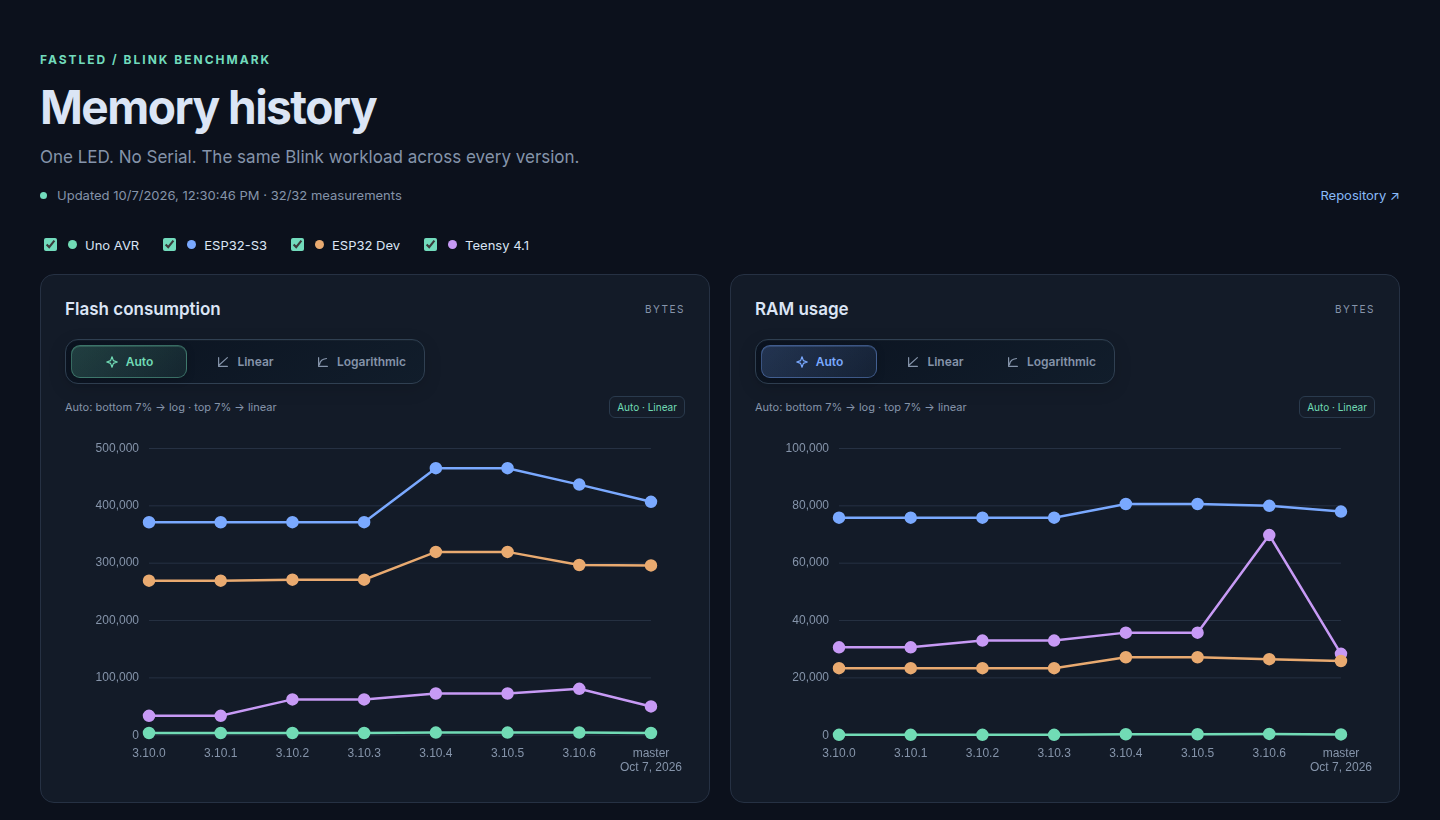
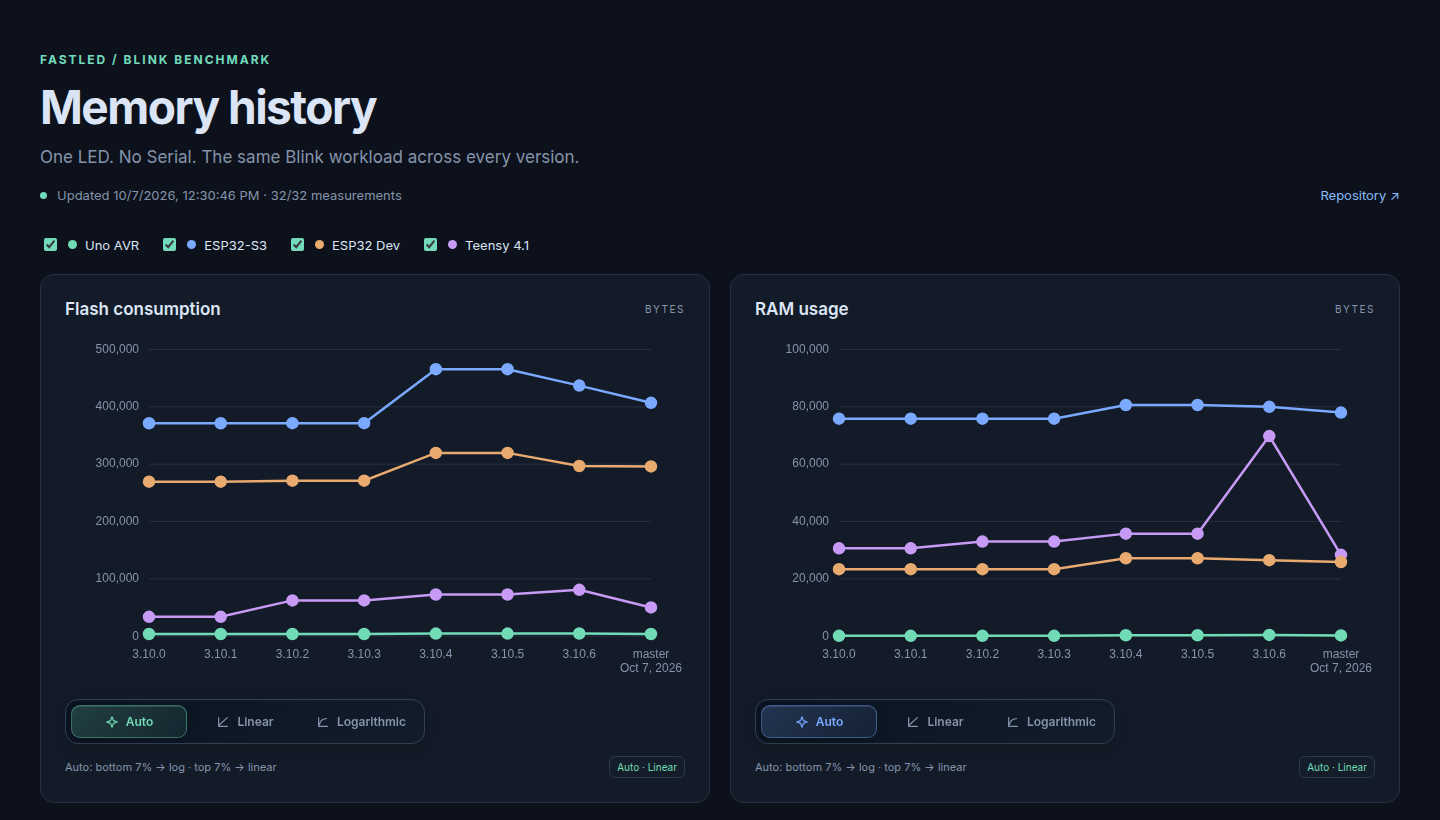
Move scale selectors below each graph (#12)

diff --git a/docs/index.html b/docs/index.html
@@ -13,8 +13,8 @@
     </header>
     <section class="toolbar" aria-label="Chart controls"><div id="platforms"></div></section>
     <div class="charts">
-      <section class="panel"><div class="panel-head"><h2>Flash consumption</h2><span>BYTES</span></div><fieldset id="flash-scale" class="scale-controls" title="Auto switches to logarithmic in the bottom 7% of the plot, and back to linear only in the top 7%."><legend class="sr-only">Flash scale</legend><span class="scale-thumb" aria-hidden="true"></span><label><input type="radio" name="flash-scale" value="auto" checked><span><svg viewBox="0 0 16 16" aria-hidden="true"><path d="M8 2l1.6 4.4L14 8l-4.4 1.6L8 14l-1.6-4.4L2 8l4.4-1.6Z"/></svg>Auto</span></label><label><input type="radio" name="flash-scale" value="linear"><span><svg viewBox="0 0 16 16" aria-hidden="true"><path d="M3 12 13 3M3 3v10h10"/></svg>Linear</span></label><label><input type="radio" name="flash-scale" value="logarithmic"><span><svg viewBox="0 0 16 16" aria-hidden="true"><path d="M3 3v10h10M4 11c1-5 3-6 8-7"/></svg>Logarithmic</span></label></fieldset><div class="scale-description"><p class="scale-note">Auto: bottom 7% → log · top 7% → linear</p><span id="flash-scale-status" class="scale-status" role="status" aria-atomic="true">Auto · Linear</span></div><div id="flash" class="chart"></div></section>
-      <section class="panel"><div class="panel-head"><h2>RAM usage</h2><span>BYTES</span></div><fieldset id="ram-scale" class="scale-controls" title="Auto switches to logarithmic in the bottom 7% of the plot, and back to linear only in the top 7%."><legend class="sr-only">RAM scale</legend><span class="scale-thumb" aria-hidden="true"></span><label><input type="radio" name="ram-scale" value="auto" checked><span><svg viewBox="0 0 16 16" aria-hidden="true"><path d="M8 2l1.6 4.4L14 8l-4.4 1.6L8 14l-1.6-4.4L2 8l4.4-1.6Z"/></svg>Auto</span></label><label><input type="radio" name="ram-scale" value="linear"><span><svg viewBox="0 0 16 16" aria-hidden="true"><path d="M3 12 13 3M3 3v10h10"/></svg>Linear</span></label><label><input type="radio" name="ram-scale" value="logarithmic"><span><svg viewBox="0 0 16 16" aria-hidden="true"><path d="M3 3v10h10M4 11c1-5 3-6 8-7"/></svg>Logarithmic</span></label></fieldset><div class="scale-description"><p class="scale-note">Auto: bottom 7% → log · top 7% → linear</p><span id="ram-scale-status" class="scale-status" role="status" aria-atomic="true">Auto · Linear</span></div><div id="ram" class="chart"></div></section>
+      <section class="panel"><div class="panel-head"><h2>Flash consumption</h2><span>BYTES</span></div><div id="flash" class="chart"></div><fieldset id="flash-scale" class="scale-controls" title="Auto switches to logarithmic in the bottom 7% of the plot, and back to linear only in the top 7%."><legend class="sr-only">Flash scale</legend><span class="scale-thumb" aria-hidden="true"></span><label><input type="radio" name="flash-scale" value="auto" checked><span><svg viewBox="0 0 16 16" aria-hidden="true"><path d="M8 2l1.6 4.4L14 8l-4.4 1.6L8 14l-1.6-4.4L2 8l4.4-1.6Z"/></svg>Auto</span></label><label><input type="radio" name="flash-scale" value="linear"><span><svg viewBox="0 0 16 16" aria-hidden="true"><path d="M3 12 13 3M3 3v10h10"/></svg>Linear</span></label><label><input type="radio" name="flash-scale" value="logarithmic"><span><svg viewBox="0 0 16 16" aria-hidden="true"><path d="M3 3v10h10M4 11c1-5 3-6 8-7"/></svg>Logarithmic</span></label></fieldset><div class="scale-description"><p class="scale-note">Auto: bottom 7% → log · top 7% → linear</p><span id="flash-scale-status" class="scale-status" role="status" aria-atomic="true">Auto · Linear</span></div></section>
+      <section class="panel"><div class="panel-head"><h2>RAM usage</h2><span>BYTES</span></div><div id="ram" class="chart"></div><fieldset id="ram-scale" class="scale-controls" title="Auto switches to logarithmic in the bottom 7% of the plot, and back to linear only in the top 7%."><legend class="sr-only">RAM scale</legend><span class="scale-thumb" aria-hidden="true"></span><label><input type="radio" name="ram-scale" value="auto" checked><span><svg viewBox="0 0 16 16" aria-hidden="true"><path d="M8 2l1.6 4.4L14 8l-4.4 1.6L8 14l-1.6-4.4L2 8l4.4-1.6Z"/></svg>Auto</span></label><label><input type="radio" name="ram-scale" value="linear"><span><svg viewBox="0 0 16 16" aria-hidden="true"><path d="M3 12 13 3M3 3v10h10"/></svg>Linear</span></label><label><input type="radio" name="ram-scale" value="logarithmic"><span><svg viewBox="0 0 16 16" aria-hidden="true"><path d="M3 3v10h10M4 11c1-5 3-6 8-7"/></svg>Logarithmic</span></label></fieldset><div class="scale-description"><p class="scale-note">Auto: bottom 7% → log · top 7% → linear</p><span id="ram-scale-status" class="scale-status" role="status" aria-atomic="true">Auto · Linear</span></div></section>
     </div>
     <section class="panel measurements"><div class="panel-head"><h2>Measurements</h2><a href="data/latest.json">Download JSON ↗</a></div><p class="note">Hover a chart point for exact bytes. Click a point to open its fbuild bloat report. Select platforms to inspect smaller targets. Missing or failed measurements appear as gaps.</p><div class="table-scroll"><table id="results"><caption class="sr-only">Blink flash and static RAM by platform and version</caption><thead><tr><th>Version</th><th>Platform</th><th>Flash</th><th>RAM</th><th>Source</th><th>Status</th><th>Bloat</th></tr></thead><tbody></tbody></table></div></section>
     <footer><p>Recomputed daily · Latest seven releases + master · <a href="https://github.com/FastLED/dashboard/blob/main/benchmark/Blink.ino">Benchmark sketch</a></p><p>Flash and RAM are fbuild’s board-aware ELF measurements (static RAM; runtime heap and stack excluded). Historical values may change with fbuild updates. Provenance and daily snapshots are saved with the results.</p></footer>
